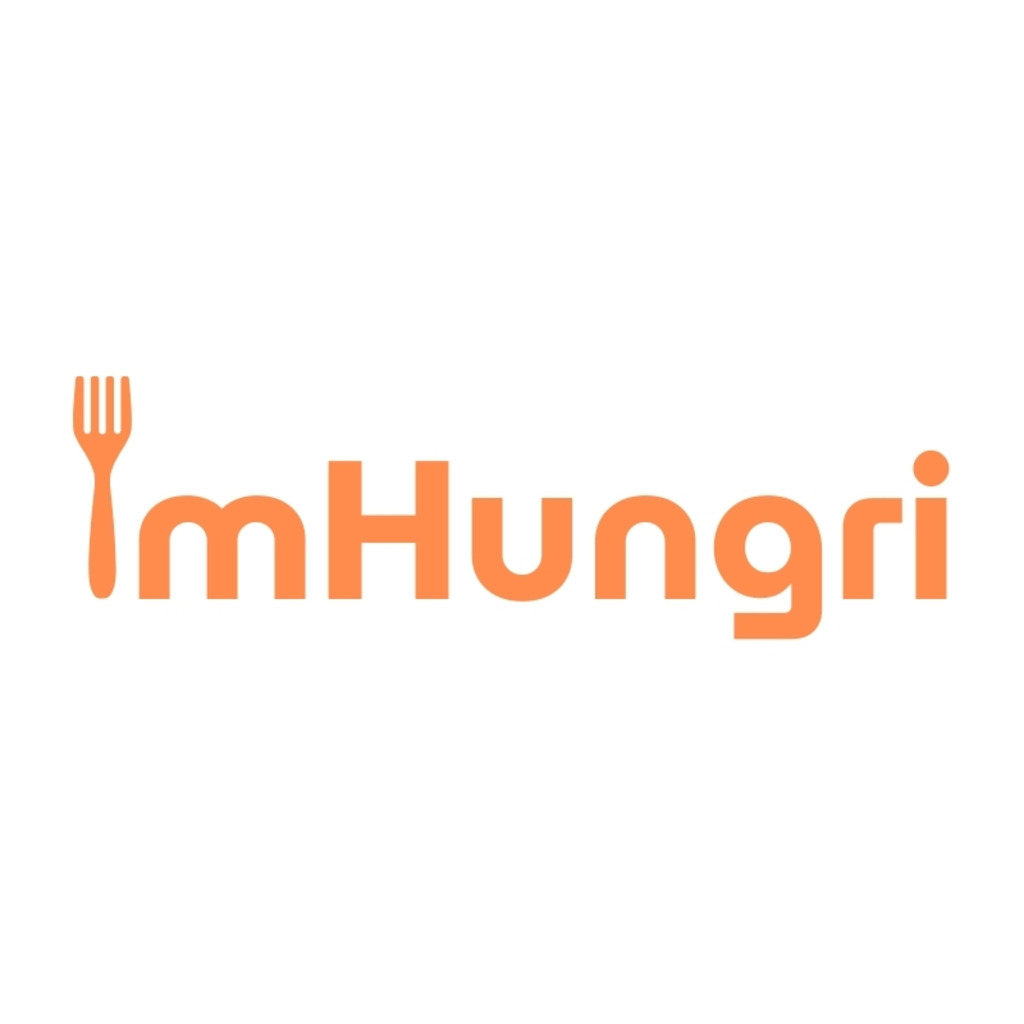
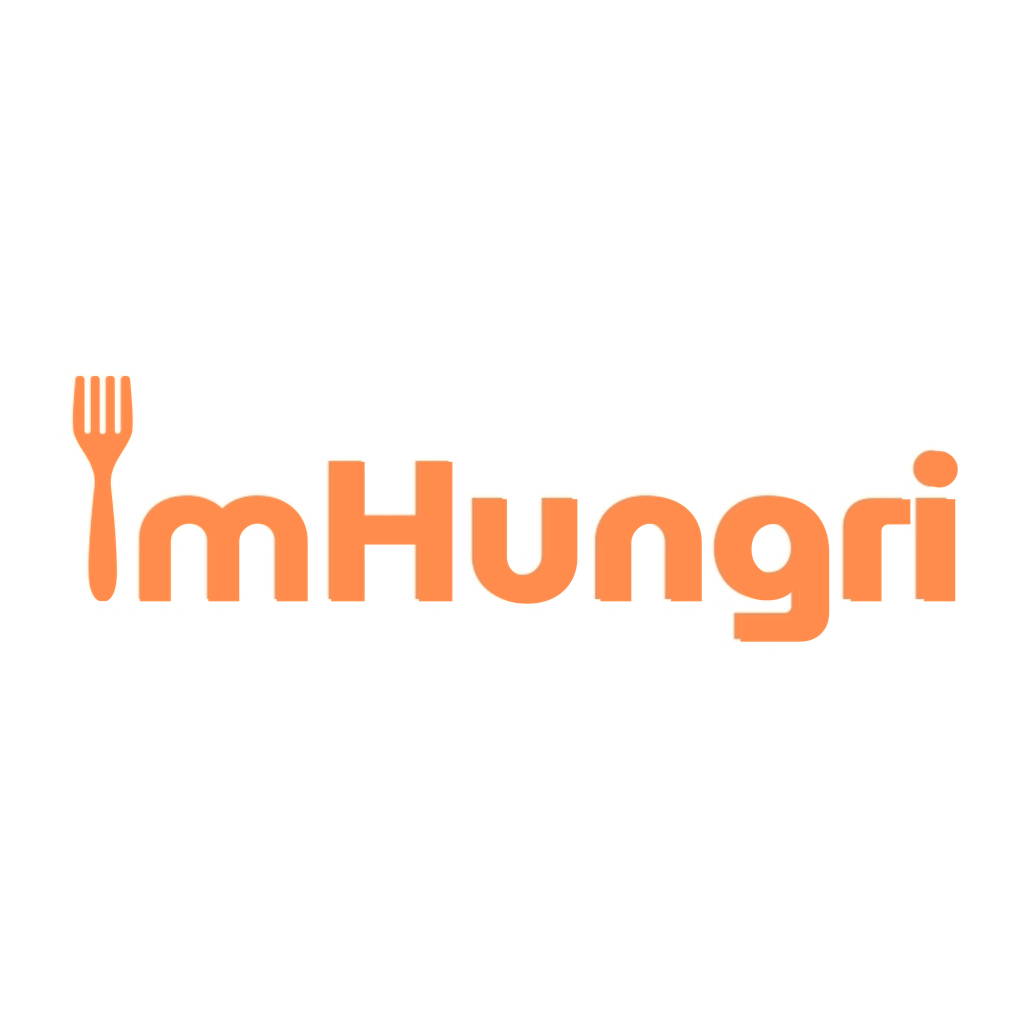
splash screen updated

diff --git a/ImHungryApp/src/screens/contribution/DealPreviewScreen.tsx b/ImHungryApp/src/screens/contribution/DealPreviewScreen.tsx
@@ -1,4 +1,4 @@
-import React, { useState, useEffect, useRef } from 'react';
+import React, { useState, useEffect, useRef, useCallback } from 'react';
 import {
   Modal,
   View,
@@ -12,6 +12,7 @@ import {
   Animated,
   Dimensions,
   FlatList,
+  Easing,
 } from 'react-native';
 import { StatusBar } from 'expo-status-bar';
 import { Ionicons, MaterialCommunityIcons } from '@expo/vector-icons';
@@ -19,7 +20,7 @@ import { Monicon } from '@monicon/native';
 import { ArrowBigUp, ArrowBigDown } from 'lucide-react-native';
 import { getCurrentUserLocation, calculateDistance } from '../../services/locationService';
 
-const { width: screenWidth } = Dimensions.get('window');
+const { width: screenWidth, height: screenHeight } = Dimensions.get('window');
 
 // Base design width (iPhone 15 = 393pt) - matches VoteButtons component
 const BASE_WIDTH = 393;
@@ -85,26 +86,56 @@ const DealPreviewScreen: React.FC<DealPreviewScreenProps> = ({
   const [imageDimensions, setImageDimensions] = useState<{ width: number, height: number } | null>(null);
   const [imageViewerKey, setImageViewerKey] = useState(0);
   const [currentImageIndex, setCurrentImageIndex] = useState(0);
+  const [isAnimatingOut, setIsAnimatingOut] = useState(false);
   const carouselRef = useRef<FlatList>(null);
-  const slideAnim = useRef(new Animated.Value(400)).current; // Start off-screen to the right
+  const slideAnim = useRef(new Animated.Value(screenWidth)).current; // Start off-screen to the right
+  const fadeAnim = useRef(new Animated.Value(0)).current; // For fade effect on background
 
   useEffect(() => {
-    if (visible) {
-      // Slide in from right
-      Animated.timing(slideAnim, {
-        toValue: 0,
-        duration: 300,
-        useNativeDriver: true,
-      }).start();
-    } else {
-      // Animate out to the right when closing
-      Animated.timing(slideAnim, {
-        toValue: 400,
-        duration: 250,
-        useNativeDriver: true,
-      }).start();
+    if (visible && !isAnimatingOut) {
+      // Reset animation values and slide in from right with easing
+      slideAnim.setValue(screenWidth);
+      fadeAnim.setValue(0);
+
+      Animated.parallel([
+        Animated.timing(slideAnim, {
+          toValue: 0,
+          duration: 350,
+          easing: Easing.out(Easing.cubic),
+          useNativeDriver: true,
+        }),
+        Animated.timing(fadeAnim, {
+          toValue: 1,
+          duration: 250,
+          useNativeDriver: true,
+        }),
+      ]).start();
     }
   }, [visible]);
+
+  // Animated close handler - slides out before closing
+  const handleAnimatedClose = useCallback(() => {
+    if (isPosting || isAnimatingOut) return;
+
+    setIsAnimatingOut(true);
+
+    Animated.parallel([
+      Animated.timing(slideAnim, {
+        toValue: screenWidth,
+        duration: 300,
+        easing: Easing.in(Easing.cubic),
+        useNativeDriver: true,
+      }),
+      Animated.timing(fadeAnim, {
+        toValue: 0,
+        duration: 200,
+        useNativeDriver: true,
+      }),
+    ]).start(() => {
+      setIsAnimatingOut(false);
+      onClose();
+    });
+  }, [isPosting, isAnimatingOut, onClose, slideAnim, fadeAnim]);
 
   const removeZipCode = (address: string) => {
     // Remove zip code (5 digits or 5+4 digits) from the end of the address
@@ -180,7 +211,14 @@ const DealPreviewScreen: React.FC<DealPreviewScreenProps> = ({
 
 
   return (
-    <Modal visible={visible} animationType="none" onRequestClose={onClose}>
+    <Modal visible={visible} animationType="none" transparent={true} onRequestClose={handleAnimatedClose}>
+      {/* Fade background overlay */}
+      <Animated.View
+        style={[
+          styles.modalOverlay,
+          { opacity: fadeAnim }
+        ]}
+      />
       <Animated.View
         style={[
           styles.animatedContainer,
@@ -196,10 +234,10 @@ const DealPreviewScreen: React.FC<DealPreviewScreenProps> = ({
           <View style={styles.topButtonRow}>
             <TouchableOpacity
               style={styles.backButton}
-              onPress={onClose}
-              disabled={isPosting}
+              onPress={handleAnimatedClose}
+              disabled={isPosting || isAnimatingOut}
             >
-              <Ionicons name="arrow-back" size={20} color={isPosting ? "#ccc" : "#000000"} />
+              <Ionicons name="arrow-back" size={20} color={(isPosting || isAnimatingOut) ? "#ccc" : "#000000"} />
             </TouchableOpacity>
             <TouchableOpacity
               style={[styles.nextButton, isPosting ? styles.disabledButton : null]}
@@ -435,8 +473,13 @@ const DealPreviewScreen: React.FC<DealPreviewScreenProps> = ({
 };
 
 const styles = StyleSheet.create({
+  modalOverlay: {
+    ...StyleSheet.absoluteFillObject,
+    backgroundColor: 'rgba(0, 0, 0, 0.15)',
+  },
   animatedContainer: {
     flex: 1,
+    backgroundColor: '#FFFFFF',
   },
   container: {
     flex: 1,

diff --git a/ImHungryApp/App.tsx b/ImHungryApp/App.tsx
@@ -1,5 +1,5 @@
 import React from 'react';
-import { View, ActivityIndicator, Image } from 'react-native';
+import { View, ActivityIndicator, Image, Animated, StyleSheet } from 'react-native';
 import { NavigationContainer } from '@react-navigation/native';
 import { createNativeStackNavigator } from '@react-navigation/native-stack';
 import { createBottomTabNavigator } from '@react-navigation/bottom-tabs';
@@ -249,13 +249,20 @@ const AppContent = () => {
   const { isAuthenticated, isLoading, isPasswordResetMode } = useAuth();
   const { isAdminMode } = useAdmin();
 
-  if (isLoading) {
-    return (
-      <View style={{ flex: 1, justifyContent: 'center', alignItems: 'center', backgroundColor: '#FFE5B4' }}>
-        <ActivityIndicator size="large" color="#FFA05C" />
-      </View>
-    );
-  }
+  const fadeAnim = React.useRef(new Animated.Value(1)).current;
+  const [isSplashVisible, setSplashVisible] = React.useState(true);
+
+  React.useEffect(() => {
+    if (!isLoading) {
+      Animated.timing(fadeAnim, {
+        toValue: 0,
+        duration: 500,
+        useNativeDriver: true,
+      }).start(() => {
+        setSplashVisible(false);
+      });
+    }
+  }, [isLoading]);
 
   // Determine which stack to show
   let currentStack;
@@ -280,13 +287,37 @@ const AppContent = () => {
   });
 
   return (
-    <NavigationContainer
-      linking={linking}
-    >
-      {currentStack}
-    </NavigationContainer>
+    <View style={{ flex: 1 }}>
+      <NavigationContainer linking={linking}>
+        {currentStack}
+      </NavigationContainer>
+
+      {isSplashVisible && (
+        <Animated.View
+          style={{
+            position: 'absolute',
+            top: 0,
+            left: 0,
+            right: 0,
+            bottom: 0,
+            justifyContent: 'center',
+            alignItems: 'center',
+            backgroundColor: '#FFE5B4',
+            opacity: fadeAnim,
+            zIndex: 999
+          }}
+        >
+          <Image
+            source={require('./assets/images/icon_splash.png')}
+            style={{ width: 200, height: 200, resizeMode: 'contain' }}
+          />
+        </Animated.View>
+      )}
+    </View>
   );
 };
+
+
 
 export default function App() {
   // Initialize Zustand auth store once at app start
@@ -329,7 +360,10 @@ export default function App() {
   if (!fontsLoaded && !fontError && !timeoutReached) {
     return (
       <View style={{ flex: 1, justifyContent: 'center', alignItems: 'center', backgroundColor: '#FFE5B4' }}>
-        <ActivityIndicator size="large" color="#FFA05C" />
+        <Image
+          source={require('./assets/images/icon_splash.png')}
+          style={{ width: 200, height: 200, resizeMode: 'contain' }}
+        />
       </View>
     );
   }

diff --git a/ImHungryApp/src/components/PhotoReviewModal.tsx b/ImHungryApp/src/components/PhotoReviewModal.tsx
@@ -274,7 +274,7 @@ const PhotoReviewModal: React.FC<PhotoReviewModalProps> = ({
     };
 
     const handleDeletePhoto = (index: number) => {
-        // If this is the last photo, ask to confirm then close the modal
+        // If this is the last photo, ask to confirm then clear photos and close
         if (localPhotos.length <= 1) {
             Alert.alert(
                 'Delete Photo',
@@ -284,7 +284,7 @@ const PhotoReviewModal: React.FC<PhotoReviewModalProps> = ({
                     {
                         text: 'Delete',
                         style: 'destructive',
-                        onPress: () => onClose(),
+                        onPress: () => onDone([], 0, []), // Clear all photos in parent
                     },
                 ]
             );

diff --git a/ImHungryApp/src/components/InstagramPhotoPickerModal.tsx b/ImHungryApp/src/components/InstagramPhotoPickerModal.tsx
@@ -493,8 +493,8 @@ const InstagramPhotoPickerModal: React.FC<InstagramPhotoPickerModalProps> = ({
                         />
                     )}
 
-                    {/* Selection Counter */}
-                    {selectedPhotos.length > 0 && (
+                    {/* Selection Counter - only show when multi-select is enabled */}
+                    {isMultiSelectEnabled && selectedPhotos.length > 0 && (
                         <View style={styles.selectionCounter}>
                             <Text style={styles.selectionCounterText}>
                                 {selectedPhotos.length} / {availableSlots} selected
